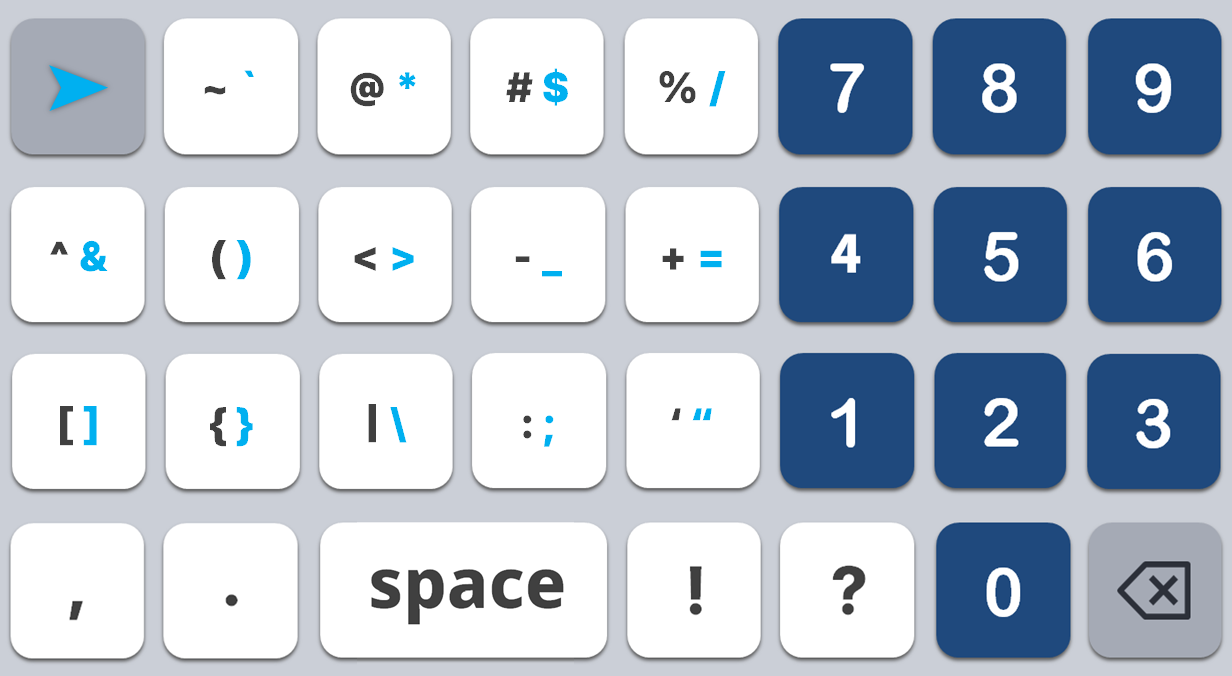
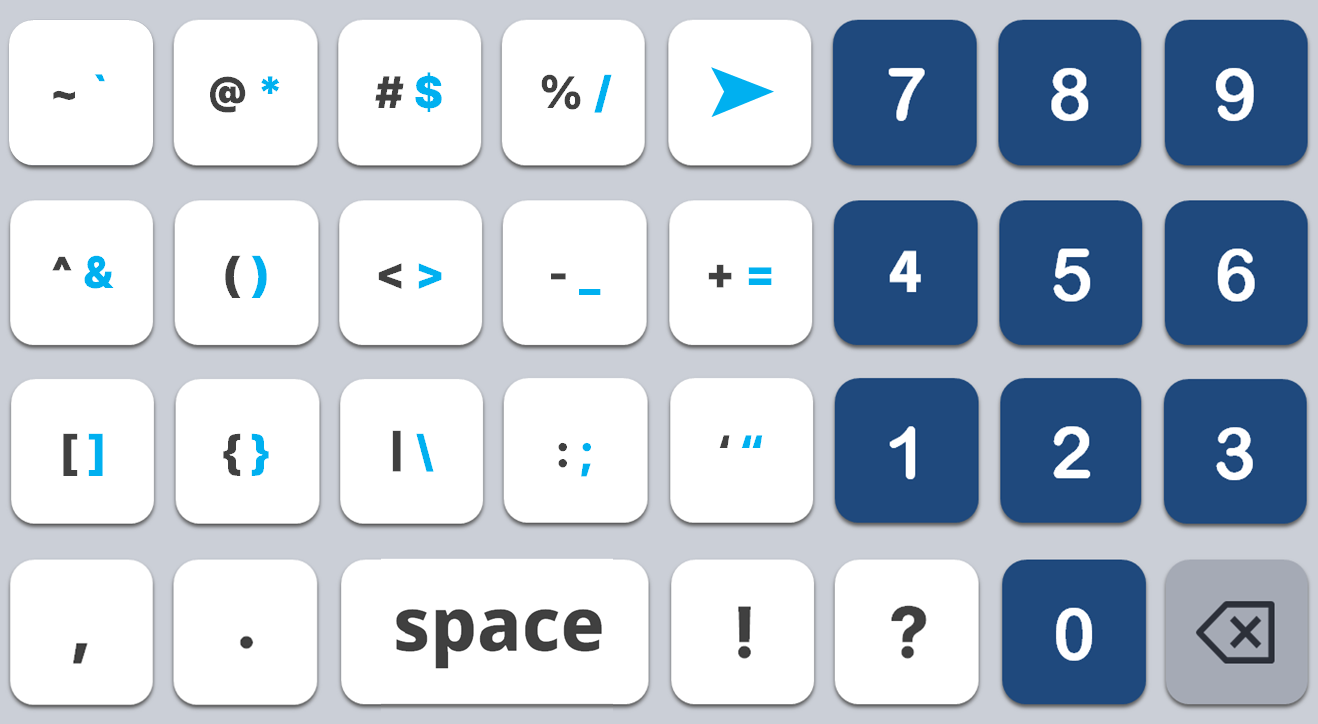
Add files via upload

diff --git a/mobile_demo.html b/mobile_demo.html
@@ -73,6 +73,9 @@
   /* 자음키/백스페이스/123/스페이스/엔터: 이미지에 이미 라벨이 그려져 있어 텍스트 없음 */
   .kbd-cons, .kbd-bs, .kbd-123, .kbd-space, .kbd-enter { font-size: 0; }
 
+  /* 영문 글자키의 투명 클릭 영역 — 표시는 별도 라벨(kbd-eng-letter)이 맡는다 */
+  .kbd-eng-hit { font-size: 0; }
+
   /* 모음·부호키 + 다음키: 이미지가 공란이라 JS가 라벨을 그려 넣음 */
   .kbd-label {
     flex-direction: row; flex-wrap: nowrap;
@@ -368,11 +371,11 @@ function handleEnter() {
 // ── 숫자/기호 자판 데이터 (라오어 데모 num.html 그대로 이식) ──────────────
 const numericRows = [
   [
-    { type:'num-cursor-right' },               // 1행 1열: →
-    { type:'num-cycle', chars:['~','`'] },     // 1행 2열: ~ `
-    { type:'num-cycle', chars:['@','*'] },     // 1행 3열: @ *
-    { type:'num-cycle', chars:['#','$'] },     // 1행 4열: # $
-    { type:'num-cycle', chars:['%','/'] },     // 1행 5열: % /
+    { type:'num-cycle', chars:['~','`'] },     // 1행 1열: ~ `
+    { type:'num-cycle', chars:['@','*'] },     // 1행 2열: @ *
+    { type:'num-cycle', chars:['#','$'] },     // 1행 3열: # $
+    { type:'num-cycle', chars:['%','/'] },     // 1행 4열: % /
+    { type:'num-next' },                        // 1행 5열: 힌디 모드의 다음키와 같은 역할(마지막 순환키 이어서 넘기기) — 기호키들과 같은 손에 몰리지 않도록 5열로 이동
     { type:'num-single', char:'7' },
     { type:'num-single', char:'8' },
     { type:'num-single', char:'9' },
@@ -398,10 +401,10 @@ const numericRows = [
     { type:'num-single', char:'3' },
   ],
   [
-    { type:'num-dismiss' },                    // 4행 1-2열: 닫기 (2칸)
-    { type:'num-skip' },                       // 4행 2열: Dismiss 2번째 칸 더미
     { type:'num-single', char:',' },
     { type:'num-single', char:'.' },
+    { type:'num-space' },                      // 4행 3-4열: 스페이스 (2칸)
+    { type:'num-skip' },                       // 4행 4열: 스페이스 2번째 칸 더미
     { type:'num-single', char:'!' },
     { type:'num-single', char:'?' },
     { type:'num-single', char:'0' },
@@ -414,15 +417,12 @@ function handleNumSingle(char) {
   appendText(char);
 }
 
+// 힌디 모드의 자음키와 같은 원칙: 같은 키를 반복해서 눌러도 항상 기본 글자(chars[0])만
+// 입력한다(멀티탭 없음) — 그래야 같은 문자를 겹쳐 입력할 수 있다(예: "~~"). 대체 후보로
+// 넘어가려면 반드시 다음키(num-next)를 따로 눌러야 한다.
 function handleNumCycle(keyId, chars) {
-  if (numLastKey === keyId) {
-    numTapIdx = (numTapIdx + 1) % chars.length;
-    backspace();
-    appendText(chars[numTapIdx]);
-  } else {
-    numLastKey = keyId; numTapIdx = 0;
-    appendText(chars[0]);
-  }
+  numLastKey = keyId; numTapIdx = 0;
+  appendText(chars[0]);
 }
 
 function handleNumBS() {
@@ -430,8 +430,31 @@ function handleNumBS() {
   backspace();
 }
 
-function handleNumCursorRight() {
+// 힌디 모드의 "다음키"와 같은 역할: 마지막으로 건드린 순환키(num-cycle)를 이어서
+// 다음 후보로 넘긴다. 손가락이 원래 키에서 떨어져도 이 키로 계속 순환할 수 있다.
+function handleNumNext() {
+  if (!numLastKey) return;
+  const m = /^n(\d)c(\d)$/.exec(numLastKey);
+  if (!m) return;
+  const key = numericRows[+m[1]][+m[2]];
+  if (key.type !== 'num-cycle') return;
+  numTapIdx = (numTapIdx + 1) % key.chars.length;
+  backspace();
+  appendText(key.chars[numTapIdx]);
+}
+
+function handleNumSpace() {
   numLastKey = null; numTapIdx = 0;
+  appendText(' ');
+}
+
+// 자판 이미지는 numericMode/engActive 조합에 따라 셋 중 하나만 있을 수 있다 —
+// 모드 전환 함수마다 따로 계산하면 한 곳만 고치고 잊어버리기 쉬워서(실제로 숫자판을
+// 한 번 거친 뒤 약어 모드를 껐다 켜면 화면이 안 맞는 버그가 났었다) 한 군데로 모았다.
+function updateKbdImage() {
+  document.getElementById('kbd-image').src = numericMode
+    ? 'images/bg_numeric_keyboard.png'
+    : (state.engActive ? 'images/keyboard_eng.png' : 'images/keyboard.png');
 }
 
 // 우측 1/3 스와이프로 진입: 진입 직전이 영문이었는지 파카하라였는지 기억해뒀다가
@@ -441,7 +464,7 @@ function enterNumericMode() {
   lastNonNumericMode = state.engActive;
   numericMode = true;
   numLastKey = null; numTapIdx = 0;
-  document.getElementById('kbd-image').src = 'images/bg_numeric_keyboard.png';
+  updateKbdImage();
   render();
 }
 
@@ -449,7 +472,7 @@ function handleNumDismiss() {
   numericMode = false;
   numLastKey = null; numTapIdx = 0;
   state.engActive = lastNonNumericMode;
-  document.getElementById('kbd-image').src = state.engActive ? 'images/keyboard_eng.png' : 'images/keyboard.png';
+  updateKbdImage();
   render();
 }
 
@@ -478,6 +501,41 @@ const ENG_BOT = {
   space: { left:22.93, width:54.27 },
   enter: { left:79.46, width:19.12 },
 };
+
+// ── 히트박스 확장: 이미지엔 키 사이 여백이 그려져 있지만, 실제 터치 영역은 그
+// 여백까지 이웃 키와 절반씩 나눠 가져서 화면 전체(0~100%)를 빈틈없이 덮게 만든다.
+// 안 그러면 여백 줄을 누를 때마다 어떤 키도 반응하지 않는 죽은 영역이 생긴다.
+// starts/sizes는 같은 길이의 배열(각 칸의 시작 위치%, 크기%) — 폭이 다른 칸이
+// 섞여 있어도(예: 영문 3행의 시프트/글자/백스페이스) 그대로 쓸 수 있다.
+function expandAxisHitboxes(starts, sizes, total = 100) {
+  const n = starts.length;
+  const bounds = new Array(n + 1);
+  bounds[0] = 0;
+  for (let i = 1; i < n; i++) bounds[i] = (starts[i - 1] + sizes[i - 1] + starts[i]) / 2;
+  bounds[n] = total;
+  return starts.map((_, i) => ({ start: bounds[i], size: bounds[i + 1] - bounds[i] }));
+}
+
+// 힌디/숫자 자판이 공유하는 그리드 히트박스 (8열 x (3행+하단바 1행))
+const HIT_COLS = expandAxisHitboxes(KEY_COLS, KEY_COLS.map(() => KEY_W));
+const HIT_ROWS = expandAxisHitboxes([...KEY_ROWS, BOT_Y], [KEY_H, KEY_H, KEY_H, BOT_H]);
+const HIT_BOT_SECTIONS = expandAxisHitboxes(
+  [BOT_SECTIONS.num[0], BOT_SECTIONS.space[0], BOT_SECTIONS.enter[0]],
+  [BOT_SECTIONS.num[1] - BOT_SECTIONS.num[0], BOT_SECTIONS.space[1] - BOT_SECTIONS.space[0], BOT_SECTIONS.enter[1] - BOT_SECTIONS.enter[0]]
+);
+
+// 영문 자판 히트박스 (행마다 칸 폭이 달라서 행별로 따로 계산)
+const ENG_HIT_ROW1 = expandAxisHitboxes(ENG_ROW1_COLS, ENG_ROW1_COLS.map(() => ENG_KEY_W));
+const ENG_HIT_ROW2 = expandAxisHitboxes(ENG_ROW2_COLS, ENG_ROW2_COLS.map(() => ENG_KEY_W));
+const ENG_HIT_ROW3 = expandAxisHitboxes(
+  [ENG_SHIFT.left, ...ENG_ROW3_COLS, ENG_BACKSPACE.left],
+  [ENG_SHIFT.width, ...ENG_ROW3_COLS.map(() => ENG_KEY_W), ENG_BACKSPACE.width]
+);
+const ENG_HIT_ROWS = expandAxisHitboxes([...ENG_ROW_TOP, ENG_BOT_Y], [ENG_ROW_H, ENG_ROW_H, ENG_ROW_H, ENG_BOT_H]);
+const ENG_HIT_BOT = expandAxisHitboxes(
+  [ENG_BOT.num.left, ENG_BOT.space.left, ENG_BOT.enter.left],
+  [ENG_BOT.num.width, ENG_BOT.space.width, ENG_BOT.enter.width]
+);
 
 // 키 입력 확정을 누르는 순간(pointerdown)이 아니라 떼는 순간(pointerup)으로 미룬다.
 // 예전엔 pointerdown 후 고정 시간(70ms)만 유예하고 그 사이 스와이프 움직임이 있었는지로
@@ -513,13 +571,25 @@ function makeBtn(cls, style, onClick) {
   return b;
 }
 
-function makeLetterBtn(ch, style, onClick) {
-  const b = makeBtn('kbd-label kbd-eng-letter', style, onClick);
+// 히트박스가 확장되면서 줄 양 끝 글자(예: 홈로우의 A, L)는 원래 그림 속 키보다
+// 훨씬 넓은 버튼 안에 놓이게 돼, 버튼 중앙(=넓어진 히트박스 중앙)으로 flex-정렬된
+// 글자가 그림 속 키 칸에서 벗어나 보였다. 그래서 클릭만 받는 투명 버튼(hitStyle)과
+// 그림 속 키 위치 그대로 놓이는 순수 표시용 라벨(visualStyle)을 따로 둔다 —
+// 둘 다 #kbd의 같은 %좌표계를 공유하니 별도 환산 없이 그대로 쓸 수 있다.
+function makeLetterBtn(ch, hitStyle, visualStyle, onClick) {
+  const frag = document.createDocumentFragment();
+  frag.appendChild(makeBtn('kbd-eng-hit', hitStyle, onClick));
+
+  const label = document.createElement('div');
+  label.className = 'kbd-label kbd-eng-letter';
+  Object.assign(label.style, visualStyle, { position: 'absolute', display: 'flex', pointerEvents: 'none' });
   const sp = document.createElement('span');
   sp.className = 'label-item';
   sp.textContent = ch;
-  b.appendChild(sp);
-  return b;
+  label.appendChild(sp);
+  frag.appendChild(label);
+
+  return frag;
 }
 
 // ── 영문 모드 진입/이탈 (한 손가락 상하 스와이프, 방향 무관 토글) ──
@@ -530,7 +600,7 @@ function enterEnglishMode() {
   state.activeRoot = null; state.activeCharIdx = 0;
   state.lastSignKey = null; state.signTapIdx = 0;
   state.independentMode = false;
-  document.getElementById('kbd-image').src = 'images/keyboard_eng.png';
+  updateKbdImage();
   render();
 }
 
@@ -538,7 +608,7 @@ function exitEnglishMode() {
   if (shiftTapTimer) { clearTimeout(shiftTapTimer); shiftTapTimer = null; }
   state.engActive = false;
   state.engShiftState = 'off';
-  document.getElementById('kbd-image').src = 'images/keyboard.png';
+  updateKbdImage();
   render();
 }
 
@@ -621,7 +691,7 @@ function toggleShortformMode() {
     state.lastSignKey = null; state.signTapIdx = 0;
     state.independentMode = false;
   }
-  document.getElementById('kbd-image').src = state.engActive ? 'images/keyboard_eng.png' : 'images/keyboard.png';
+  updateKbdImage();
   render();
 }
 
@@ -629,42 +699,59 @@ function renderEng() {
   const kbd = document.getElementById('kbd');
   kbd.innerHTML = '';
   const upper = state.engShiftState !== 'off';
+  const rowY = ENG_HIT_ROWS;
 
   ENG_ROW1.forEach((ch, i) => kbd.appendChild(makeLetterBtn(upper ? ch : ch.toLowerCase(), {
+    left: ENG_HIT_ROW1[i].start + '%', top: rowY[0].start + '%', width: ENG_HIT_ROW1[i].size + '%', height: rowY[0].size + '%'
+  }, {
     left: ENG_ROW1_COLS[i] + '%', top: ENG_ROW_TOP[0] + '%', width: ENG_KEY_W + '%', height: ENG_ROW_H + '%'
   }, () => handleEngLetter(ch))));
 
   ENG_ROW2.forEach((ch, i) => kbd.appendChild(makeLetterBtn(upper ? ch : ch.toLowerCase(), {
+    left: ENG_HIT_ROW2[i].start + '%', top: rowY[1].start + '%', width: ENG_HIT_ROW2[i].size + '%', height: rowY[1].size + '%'
+  }, {
     left: ENG_ROW2_COLS[i] + '%', top: ENG_ROW_TOP[1] + '%', width: ENG_KEY_W + '%', height: ENG_ROW_H + '%'
   }, () => handleEngLetter(ch))));
 
   ENG_ROW3.forEach((ch, i) => kbd.appendChild(makeLetterBtn(upper ? ch : ch.toLowerCase(), {
+    left: ENG_HIT_ROW3[i + 1].start + '%', top: rowY[2].start + '%', width: ENG_HIT_ROW3[i + 1].size + '%', height: rowY[2].size + '%'
+  }, {
     left: ENG_ROW3_COLS[i] + '%', top: ENG_ROW_TOP[2] + '%', width: ENG_KEY_W + '%', height: ENG_ROW_H + '%'
   }, () => handleEngLetter(ch))));
 
+  // 시프트 키도 글자키와 같은 문제였다: 확장된 히트박스 기준으로 "우상단 12%/10%"를
+  // 계산하니 초록 점이 그림 속 키 테두리를 넘어가 버렸다. 클릭 전용 투명 버튼(확장
+  // 히트박스)과 점을 얹는 표시용 레이어(그림 속 키 위치 그대로)를 분리해서 고친다.
+  kbd.appendChild(makeBtn('kbd-eng-hit', {
+    left: ENG_HIT_ROW3[0].start + '%', top: rowY[2].start + '%', width: ENG_HIT_ROW3[0].size + '%', height: rowY[2].size + '%'
+  }, handleShiftTap));
+
   const shiftCls = 'kbd-shift' + (state.engShiftState === 'lock' ? ' locked' : state.engShiftState === 'once' ? ' once' : '');
-  const shiftBtn = makeBtn(shiftCls, {
+  const shiftVisual = document.createElement('div');
+  shiftVisual.className = shiftCls;
+  Object.assign(shiftVisual.style, {
+    position: 'absolute', pointerEvents: 'none',
     left: ENG_SHIFT.left + '%', top: ENG_ROW_TOP[2] + '%', width: ENG_SHIFT.width + '%', height: ENG_ROW_H + '%'
-  }, handleShiftTap);
+  });
   const dot = document.createElement('span');
   dot.className = 'shift-dot';
-  shiftBtn.appendChild(dot);
-  kbd.appendChild(shiftBtn);
+  shiftVisual.appendChild(dot);
+  kbd.appendChild(shiftVisual);
 
   kbd.appendChild(makeBtn('kbd-bs', {
-    left: ENG_BACKSPACE.left + '%', top: ENG_ROW_TOP[2] + '%', width: ENG_BACKSPACE.width + '%', height: ENG_ROW_H + '%'
+    left: ENG_HIT_ROW3[8].start + '%', top: rowY[2].start + '%', width: ENG_HIT_ROW3[8].size + '%', height: rowY[2].size + '%'
   }, handleEngBackspace));
 
   kbd.appendChild(makeBtn('kbd-123', {
-    left: ENG_BOT.num.left + '%', top: ENG_BOT_Y + '%', width: ENG_BOT.num.width + '%', height: ENG_BOT_H + '%'
+    left: ENG_HIT_BOT[0].start + '%', top: rowY[3].start + '%', width: ENG_HIT_BOT[0].size + '%', height: rowY[3].size + '%'
   }, showHelp));
 
   kbd.appendChild(makeBtn('kbd-space', {
-    left: ENG_BOT.space.left + '%', top: ENG_BOT_Y + '%', width: ENG_BOT.space.width + '%', height: ENG_BOT_H + '%'
+    left: ENG_HIT_BOT[1].start + '%', top: rowY[3].start + '%', width: ENG_HIT_BOT[1].size + '%', height: rowY[3].size + '%'
   }, handleEngSpace));
 
   kbd.appendChild(makeBtn('kbd-enter', {
-    left: ENG_BOT.enter.left + '%', top: ENG_BOT_Y + '%', width: ENG_BOT.enter.width + '%', height: ENG_BOT_H + '%'
+    left: ENG_HIT_BOT[2].start + '%', top: rowY[3].start + '%', width: ENG_HIT_BOT[2].size + '%', height: rowY[3].size + '%'
   }, handleEngEnter));
 }
 
@@ -738,27 +825,26 @@ function renderNumeric() {
   kbd.innerHTML = '';
 
   const handlers = {
-    'num-dismiss':      () => handleNumDismiss(),
-    'num-single':       (k) => () => handleNumSingle(k.char),
-    'num-cycle':        (k, id) => () => handleNumCycle(id, k.chars),
-    'num-bs':           () => handleNumBS(),
-    'num-cursor-right': () => handleNumCursorRight(),
+    'num-single': (k) => () => handleNumSingle(k.char),
+    'num-cycle':  (k, id) => () => handleNumCycle(id, k.chars),
+    'num-bs':     () => handleNumBS(),
+    'num-next':   () => handleNumNext(),
+    'num-space':  () => handleNumSpace(),
   };
 
   for (let r = 0; r < 4; r++) {
-    const isBot = (r === 3);
-    const rowTop = isBot ? BOT_Y : KEY_ROWS[r];
-    const rowH   = isBot ? BOT_H : KEY_H;
+    const rowTop = HIT_ROWS[r].start;
+    const rowH   = HIT_ROWS[r].size;
 
     for (let c = 0; c < 8; c++) {
       const key = numericRows[r][c];
       if (key.type === 'num-skip') continue;
 
       const keyId = `n${r}c${c}`;
-      const keyW = (key.type === 'num-dismiss')
-        ? (KEY_COLS[c + 1] + KEY_W - KEY_COLS[c]) + '%'  // 2칸 너비: 다음 칸 끝까지
-        : KEY_W + '%';
-      const style = { left: KEY_COLS[c] + '%', top: rowTop + '%', width: keyW, height: rowH + '%' };
+      const keyW = (key.type === 'num-space')
+        ? (HIT_COLS[c].size + HIT_COLS[c + 1].size) + '%'  // 2칸 너비: 다음 칸 끝까지
+        : HIT_COLS[c].size + '%';
+      const style = { left: HIT_COLS[c].start + '%', top: rowTop + '%', width: keyW, height: rowH + '%' };
       const action = (key.type === 'num-single') ? handlers['num-single'](key)
                    : (key.type === 'num-cycle')  ? handlers['num-cycle'](key, keyId)
                    : handlers[key.type];
@@ -779,14 +865,14 @@ function renderDevanagari() {
     for (let col = 0; col < 5; col++) {
       const root = leftKeys[row][col];
       kbd.appendChild(makeBtn('kbd-cons', {
-        left: KEY_COLS[col] + '%', top: KEY_ROWS[row] + '%', width: KEY_W + '%', height: KEY_H + '%'
+        left: HIT_COLS[col].start + '%', top: HIT_ROWS[row].start + '%', width: HIT_COLS[col].size + '%', height: HIT_ROWS[row].size + '%'
       }, () => handleConsonant(root)));
     }
 
     for (let col = 0; col < 3; col++) {
       const rk = rightKeys[row][col];
       const imgCol = col + 5;
-      const style = { left: KEY_COLS[imgCol] + '%', top: KEY_ROWS[row] + '%', width: KEY_W + '%', height: KEY_H + '%' };
+      const style = { left: HIT_COLS[imgCol].start + '%', top: HIT_ROWS[row].start + '%', width: HIT_COLS[imgCol].size + '%', height: HIT_ROWS[row].size + '%' };
 
       if (rk.type === 'next') {
         let labels = [];
@@ -833,18 +919,18 @@ function renderDevanagari() {
   }
 
   // 하단바: 123(→도움말) | 스페이스/스와 | 엔터
-  const [n0, n1] = BOT_SECTIONS.num;
+  const botRow = HIT_ROWS[3];
   kbd.appendChild(makeBtn('kbd-123', {
-    left: n0 + '%', top: BOT_Y + '%', width: (n1 - n0) + '%', height: BOT_H + '%'
+    left: HIT_BOT_SECTIONS[0].start + '%', top: botRow.start + '%', width: HIT_BOT_SECTIONS[0].size + '%', height: botRow.size + '%'
   }, showHelp));
 
-  const [s0, s1] = BOT_SECTIONS.space;
   kbd.appendChild(makeBtn('kbd-space', {
-    left: s0 + '%', top: BOT_Y + '%', width: (s1 - s0) + '%', height: BOT_H + '%'
+    left: HIT_BOT_SECTIONS[1].start + '%', top: botRow.start + '%', width: HIT_BOT_SECTIONS[1].size + '%', height: botRow.size + '%'
   }, handleSpace));
 
-  // 스페이스바 라벨: 독립모음 모드(공란 이후)일 때만 전부 검게, 노멀일 때는
-  // "स्वर" 부분만 회색으로 — 지금은 스페이스를 누르면 독립모음이 된다는 걸 넌지시 알려준다.
+  // 스페이스바 라벨: 실제 눌리는 영역(위 버튼)과 달리 그림에 그려진 키 모양 그대로의
+  // 위치에 둔다 — 독립모음 모드(공란 이후)일 때만 전부 검게, 노멀일 때는 "स्वर" 부분만 회색으로.
+  const [s0, s1] = BOT_SECTIONS.space;
   const spaceLabel = document.createElement('div');
   spaceLabel.className = 'kbd-space-label';
   Object.assign(spaceLabel.style, { left: s0 + '%', top: BOT_Y + '%', width: (s1 - s0) + '%', height: BOT_H + '%' });
@@ -854,9 +940,8 @@ function renderDevanagari() {
   spaceLabel.appendChild(spWord); spaceLabel.appendChild(slash); spaceLabel.appendChild(svWord);
   kbd.appendChild(spaceLabel);
 
-  const [e0, e1] = BOT_SECTIONS.enter;
   kbd.appendChild(makeBtn('kbd-enter', {
-    left: e0 + '%', top: BOT_Y + '%', width: (e1 - e0) + '%', height: BOT_H + '%'
+    left: HIT_BOT_SECTIONS[2].start + '%', top: botRow.start + '%', width: HIT_BOT_SECTIONS[2].size + '%', height: botRow.size + '%'
   }, handleEnter));
 }
 
@@ -870,13 +955,21 @@ function resetAll() {
   };
   numericMode = false; lastNonNumericMode = false; numLastKey = null; numTapIdx = 0;
   beforeShortform = null;
-  document.getElementById('kbd-image').src = 'images/keyboard.png';
+  updateKbdImage();
   render();
 }
 
 setText('');
 render();
 showHelp(); // 데모를 열면 항상 간편 모드 전환 안내부터 먼저 보여준다
+
+// 영문/숫자 자판 이미지는 처음 그 모드로 스와이프해 들어가는 순간에야 브라우저가
+// 불러오기 시작해서 그 첫 진입에서만 살짝 버퍼링이 생겼다. 시작하자마자 미리
+// 받아 디코딩까지 끝내두면 실제로 전환할 때는 이미 캐시돼 있어 바로 나온다.
+['images/keyboard_eng.png', 'images/bg_numeric_keyboard.png'].forEach(src => {
+  const img = new Image();
+  img.src = src;
+});
 </script>
 </body>
 </html>
